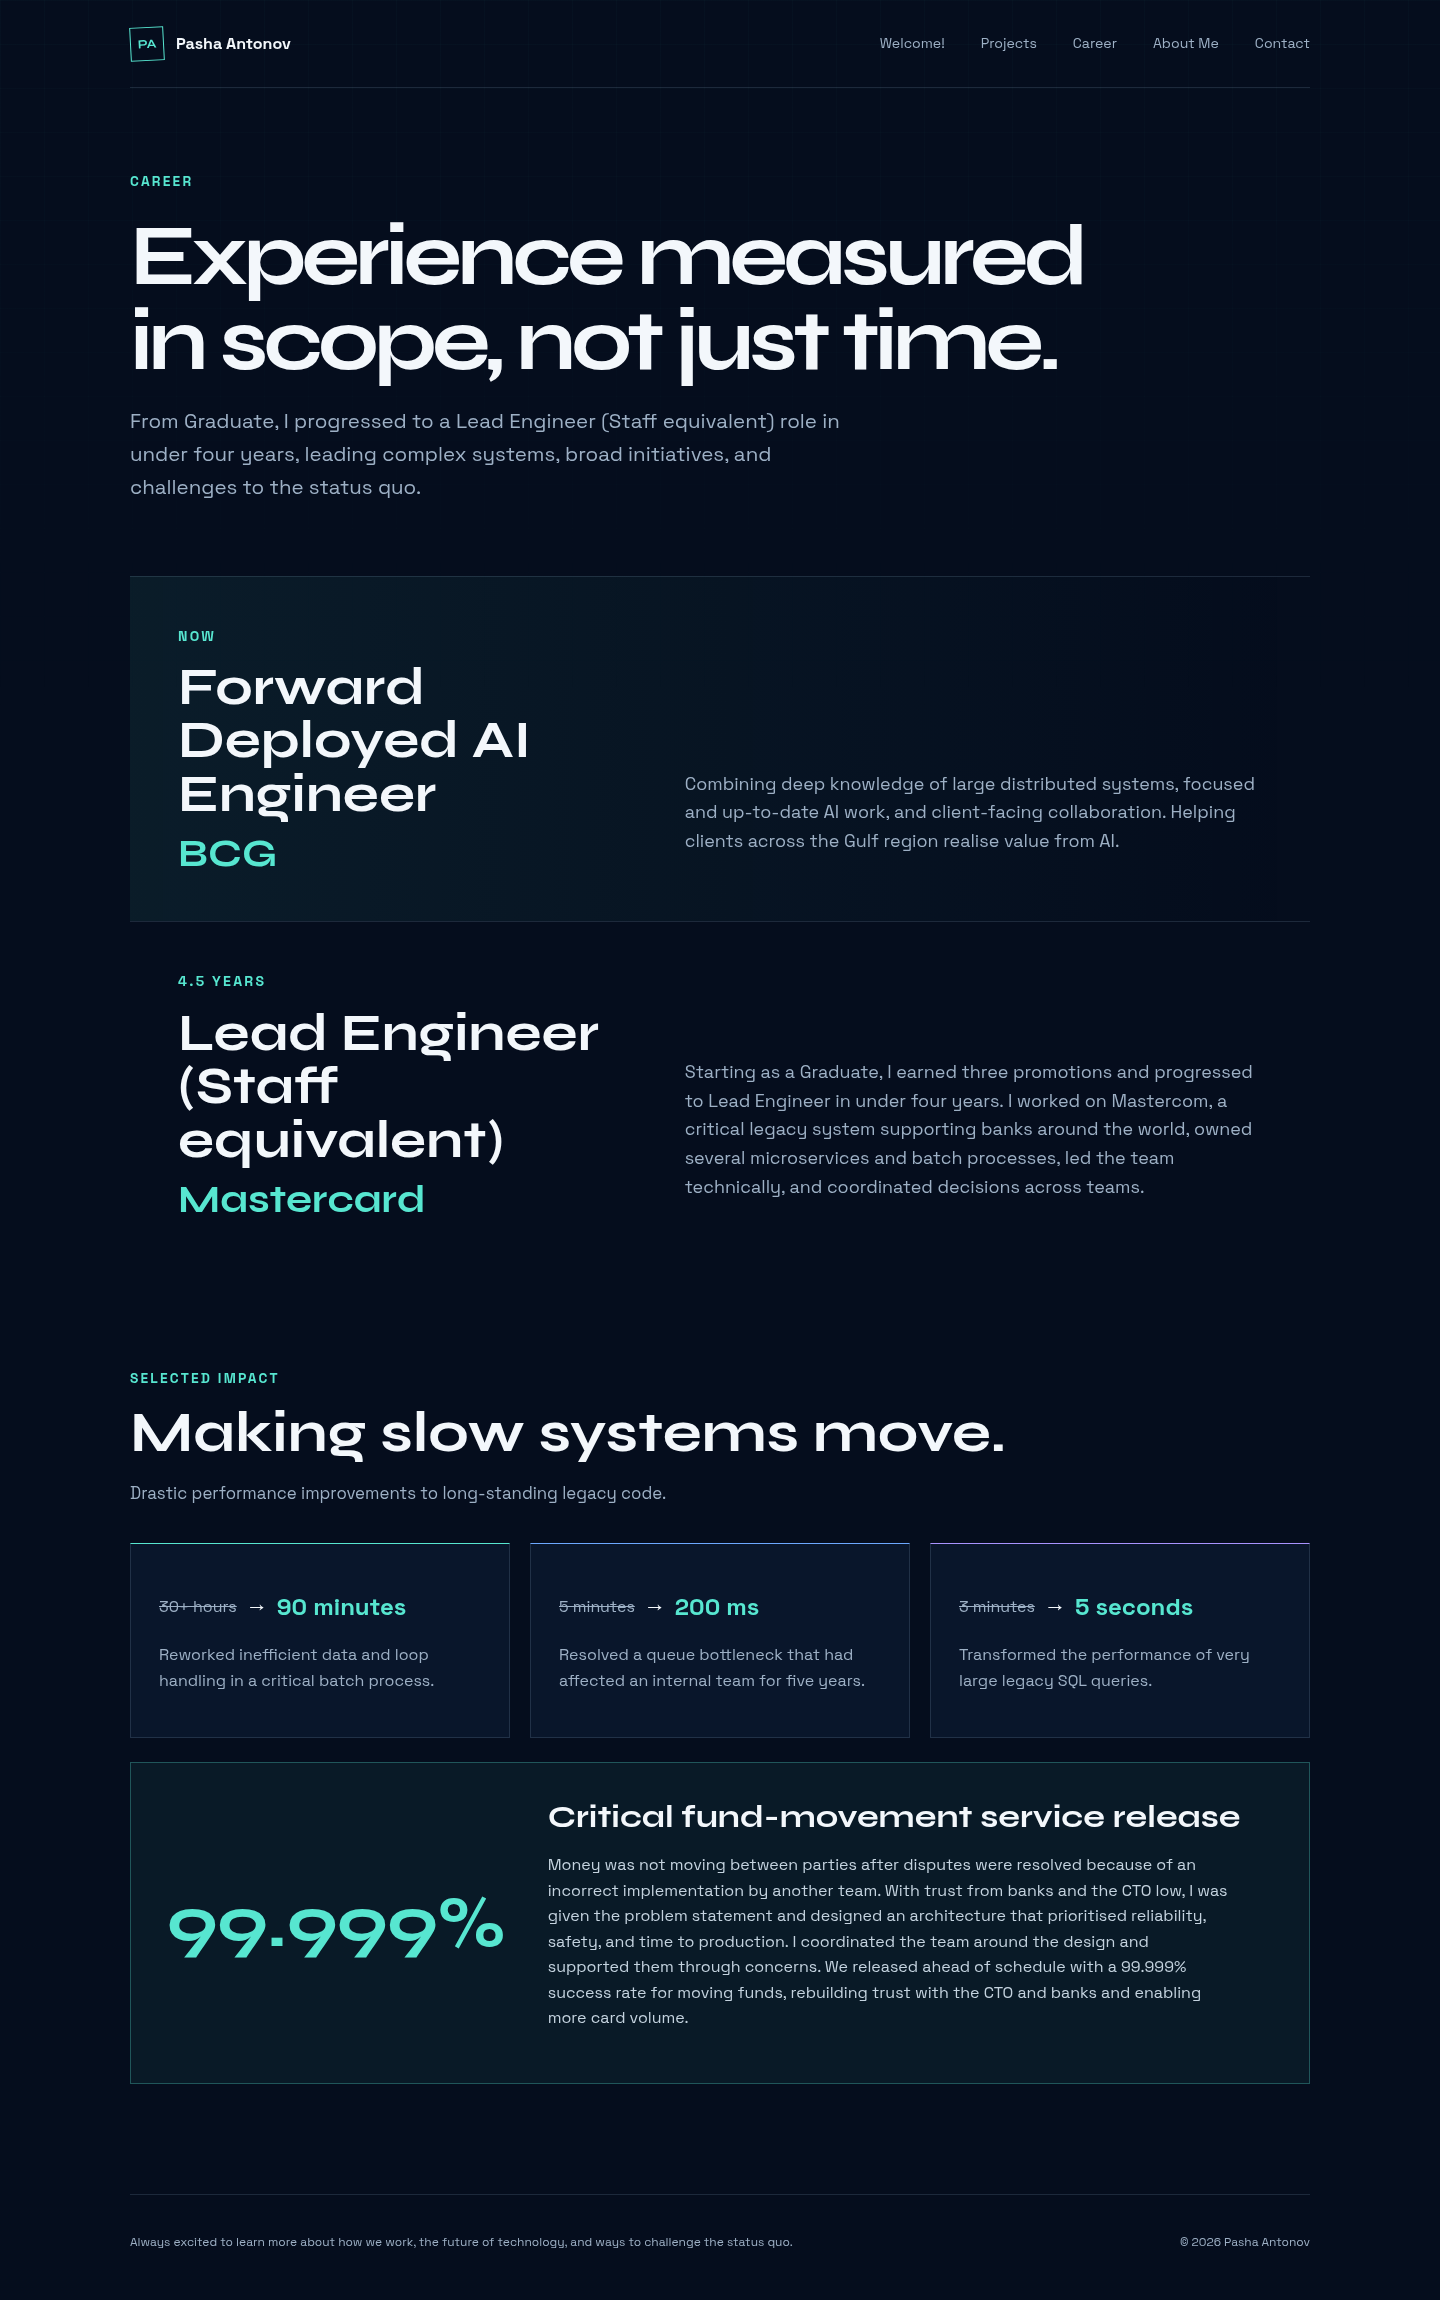
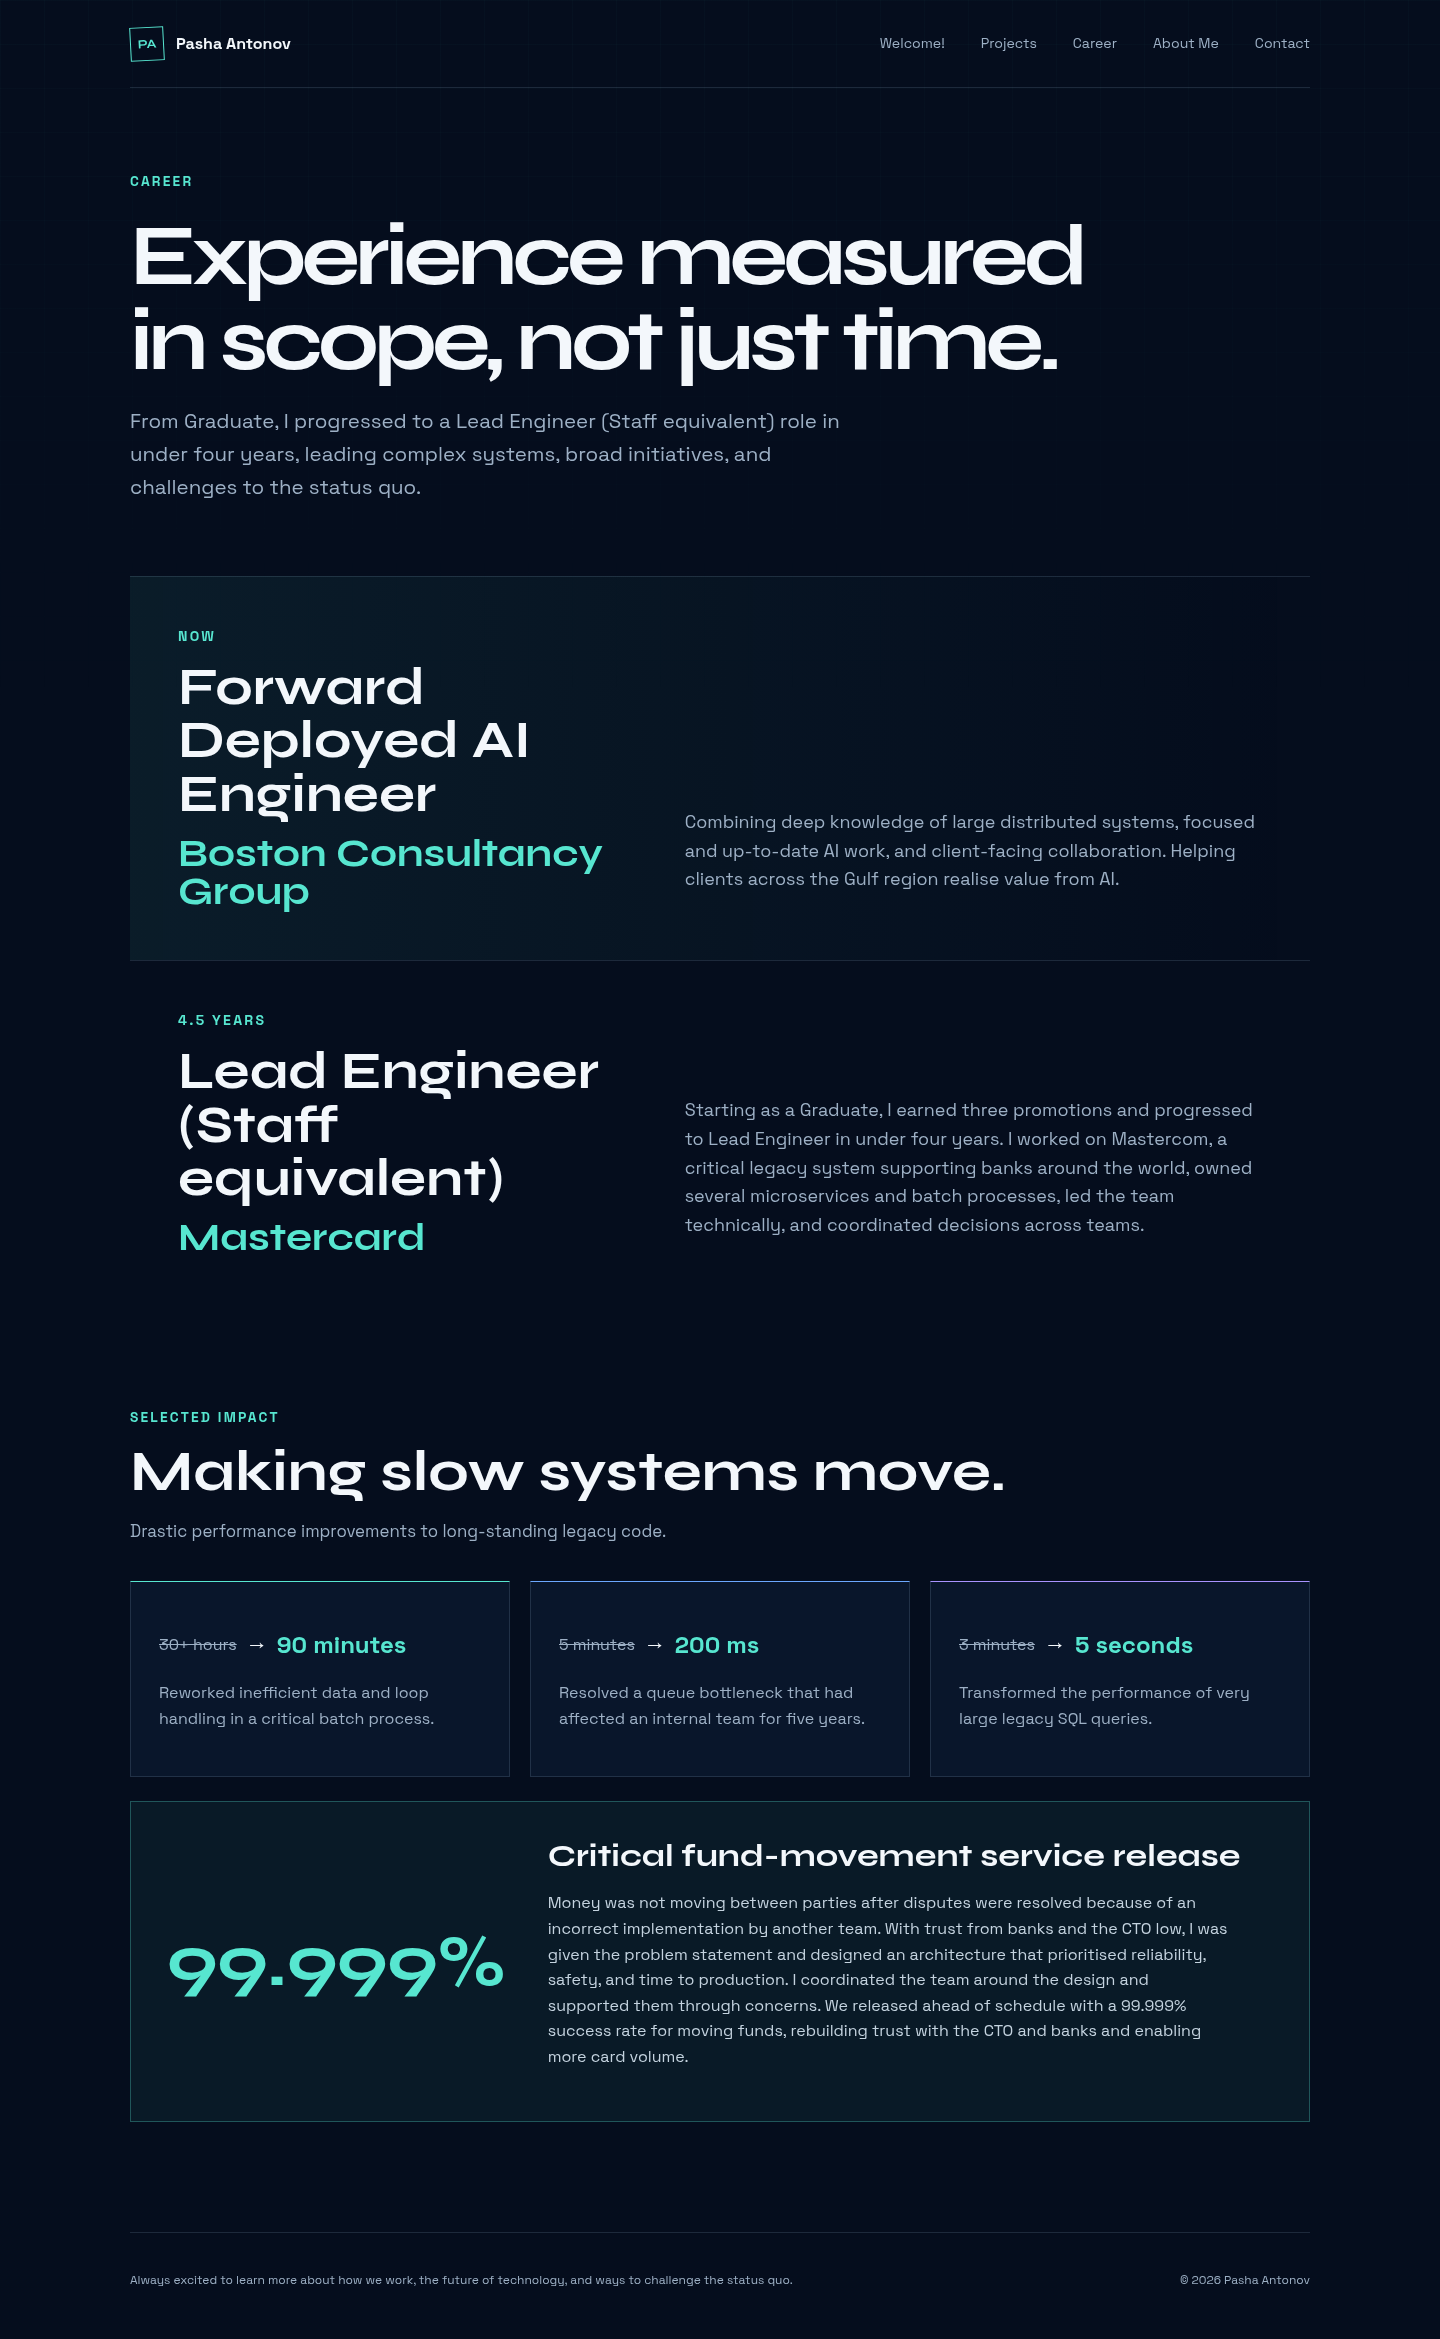
Expand BCG name across portfolio

diff --git a/tests/e2e/navigation.spec.ts b/tests/e2e/navigation.spec.ts
@@ -78,6 +78,11 @@ test("project and contact links point to approved destinations", async ({
 });
 
 test("proposal content and ordering are rendered", async ({ page }) => {
+  await page.goto("/");
+  await expect(page.locator(".hero-copy .eyebrow")).toContainText(
+    "Forward Deployed AI Engineer at Boston Consultancy Group",
+  );
+
   await page.goto("/projects");
   const projectNames = await page
     .locator(".project-card h2")
@@ -95,6 +100,9 @@ test("proposal content and ordering are rendered", async ({ page }) => {
   ).toBeVisible();
 
   await page.goto("/career");
+  await expect(
+    page.getByText("Boston Consultancy Group", { exact: true }),
+  ).toBeVisible();
   await expect(page.getByText("4.5 years", { exact: true })).toBeVisible();
   await expect(page.getByText("Over 4.5 years", { exact: true })).toHaveCount(
     0,

diff --git a/app/page.tsx b/app/page.tsx
@@ -8,7 +8,8 @@ export default function Home() {
       <section className="hero section-wrap">
         <div className="hero-copy">
           <p className="eyebrow">
-            <span className="status-dot" /> Forward Deployed AI Engineer at BCG
+            <span className="status-dot" /> Forward Deployed AI Engineer at
+            Boston Consultancy Group
             <span className="previous-role">
               Previously Lead Engineer (Staff equivalent) at Mastercard
             </span>

diff --git a/app/career/page.tsx b/app/career/page.tsx
@@ -37,7 +37,7 @@ export default function CareerPage() {
         <div>
           <p className="eyebrow career-kicker">Now</p>
           <h2>Forward Deployed AI Engineer</h2>
-          <p className="company company-prominent">BCG</p>
+          <p className="company company-prominent">Boston Consultancy Group</p>
         </div>
         <p>
           Combining deep knowledge of large distributed systems, focused and

diff --git a/CHANGELOG.md b/CHANGELOG.md
@@ -33,3 +33,4 @@ in `SPEC.md`; this file records what changed rather than what is planned.
   Chase and Bella.
 - Refined proposal copy, desktop heading scale and line wrapping, and Chase's
   gallery crop based on visual-review feedback.
+- Expanded the BCG company label on the Welcome and Career pages.

diff --git a/PROPOSALS_V3.md b/PROPOSALS_V3.md
@@ -1,0 +1,7 @@
+# Welcome
+
+- Turn " Forward Deployed AI Engineer at BCG" to " Forward Deployed AI Engineer at Boston Consultancy Group"
+
+# Career
+
+- Turn "BCG" to "Boston Consultancy Group"
